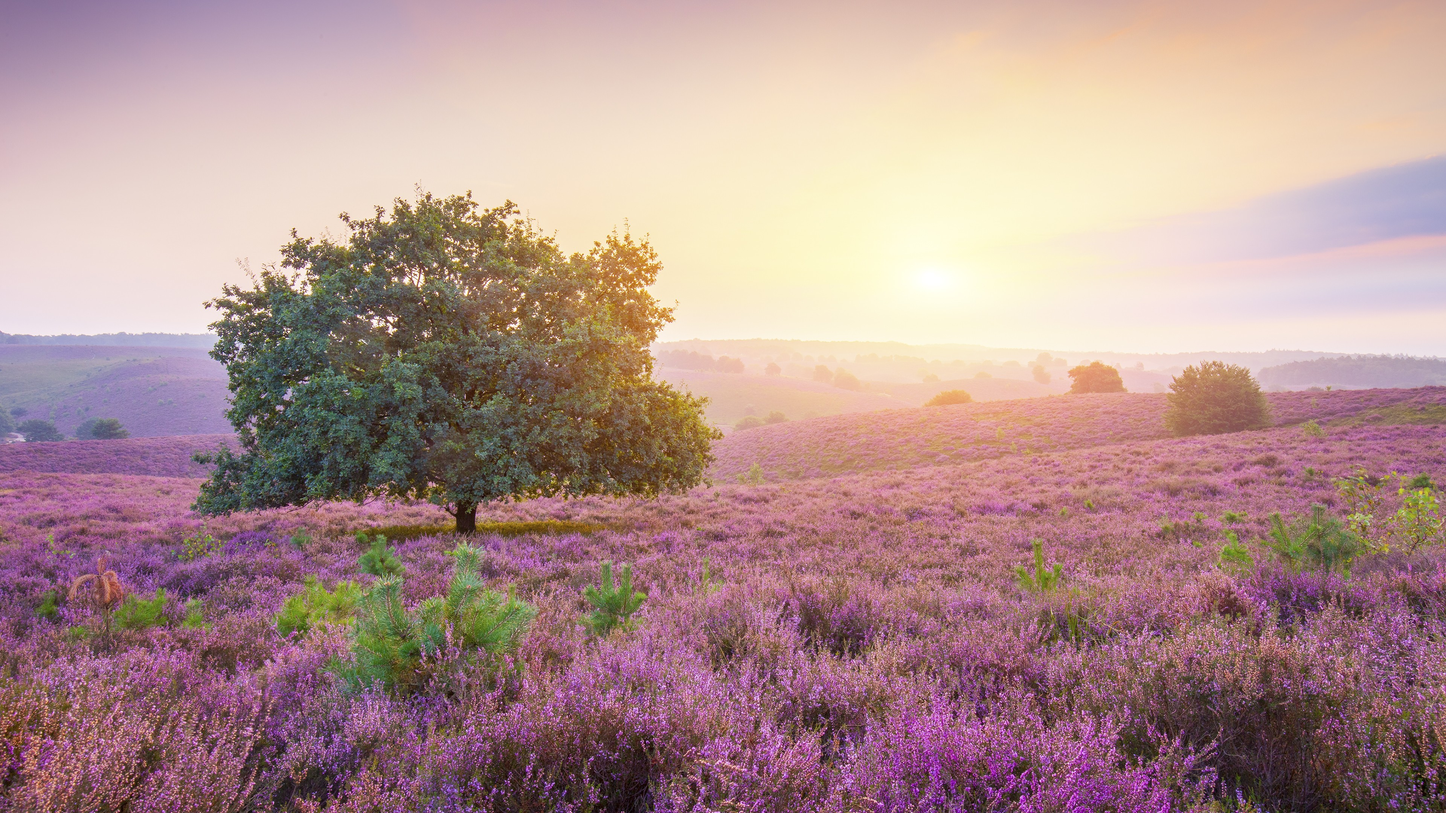
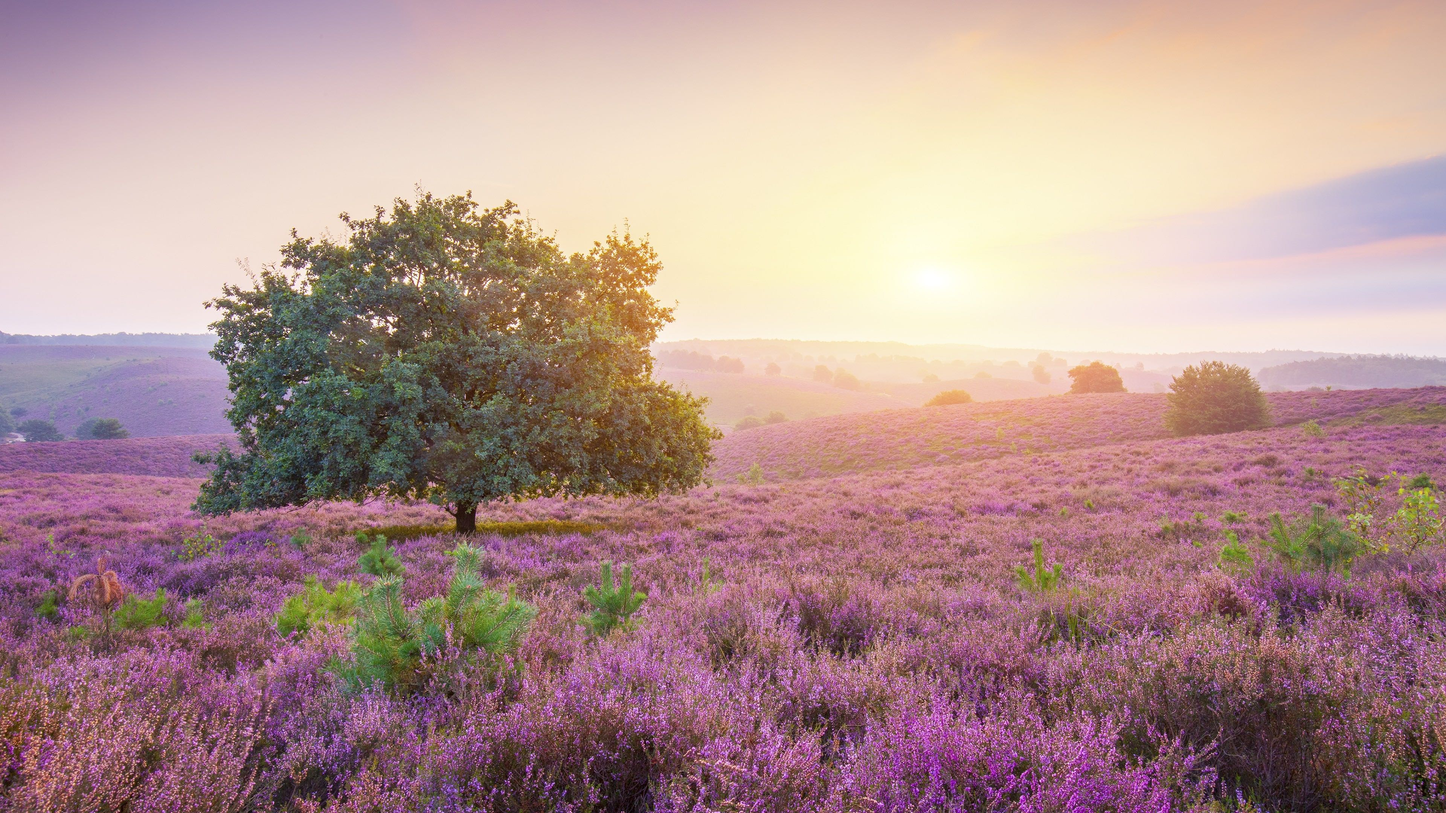
reduce wallpaper sizes and add more images.

diff --git a/activities.html b/activities.html
@@ -41,14 +41,14 @@
                         <img src="https://scontent.fyyc5-1.fna.fbcdn.net/v/t1.0-9/1524824_10100307737489605_1301902264_n.jpg?_nc_cat=110&_nc_ohc=eHJi1oobYuIAX8tH1EH&_nc_ht=scontent.fyyc5-1.fna&oh=51db98979444824721f94850bfcfe0b8&oe=5ECC4829"
                         alt="Hiking in Bolivia">
                         <div class="img-caption">
-                            <p>Hike in the Bolivian Andes at 5000+ ft.</p>
+                            <p>Hike in the Bolivian Andes at 5000+ ft<br />Bolivia</p>
                         </div>
                     </div>
                     <div class="item">
                         <img src="https://trainsplanesandtuktuks.com/Wordpress/wp-content/uploads/2012/02/red-sea-2613882_1280-1024x819.jpg"
                             alt="Scuba Diving">
                         <div class="img-caption">
-                            <p>Scuba Diving in Ko Tao</p>
+                            <p>Scuba Diving in<br />Ko Tao</p>
                         </div>
                     </div>
                     <div class="item">
@@ -66,10 +66,10 @@
                         </div>
                     </div>
                     <div class="item">
-                        <img src="https://instagram.fyyc5-1.fna.fbcdn.net/v/t51.2885-15/e15/11049160_1563794407222438_8915940_n.jpg?_nc_ht=instagram.fyyc5-1.fna.fbcdn.net&_nc_cat=110&_nc_ohc=UTrZzubGgBQAX_s8Gba&oh=df417fd5374adc083e3949d4092d50f9&oe=5ECC8AF6"
-                            alt="Sumo Wrestling">
+                        <img src="https://lh3.googleusercontent.com/proxy/PFcQ_CNWE7hvSmOLeinbFoSKtc6at444daLQRYzOIdH9YybiqIbJ9ETMz4dZB-mCp4aNPa1Zfx0hsc94qqIssZ7E71vjeL8CR7lc3yXuai9GKWqppWqrIdB_LwIrRqR5OJpHI8ny_4YXKOEWMwxRGfjmD1n6SSXtx1MavCDC3MU"
+                            alt="Szechenyi Baths">
                         <div class="img-caption">
-                            <p>Sumo Wrestling (in a sumo suit)</p>
+                            <p>Soak in the Szechenyi Thermal Baths<br />Budapest, Hungary</p>
                         </div>
                     </div>
                     <div class="item">
@@ -83,7 +83,35 @@
                         <img src="https://cdn.kimkim.com/files/a/content_articles/featured_photos/fe7918e9abc72ff850344ff33792a51c393ceae4/big-10099011f3f84e7bd08a0148d26b13f9.jpg"
                             alt="Macchu Picchu">
                         <div class="img-caption">
-                            <p>Hike the Inca Trail to Macchu Picchu</p>
+                            <p>Hike the Inca Trail to Macchu Picchu<br />Peru</p>
+                        </div>
+                    </div>
+                    <div class="item">
+                        <img src="https://instagram.fyyc5-1.fna.fbcdn.net/v/t51.2885-15/e15/11049160_1563794407222438_8915940_n.jpg?_nc_ht=instagram.fyyc5-1.fna.fbcdn.net&_nc_cat=110&_nc_ohc=UTrZzubGgBQAX_s8Gba&oh=df417fd5374adc083e3949d4092d50f9&oe=5ECC8AF6"
+                            alt="Sumo Wrestling">
+                        <div class="img-caption">
+                            <p>Sumo Wrestling (in a sumo suit)</p>
+                        </div>
+                    </div>
+                    <div class="item">
+                        <img src="https://media.timeout.com/images/105245696/630/472/image.jpg"
+                            alt="teamLab Borderless">
+                        <div class="img-caption">
+                            <p>Visit the teamLab Borderless Art Exhibition<br />Tokyo, Japan</p>
+                        </div>
+                    </div>
+                    <div class="item">
+                        <img src="https://i1.wp.com/accidentaltravelwriter.com/wp-content/uploads/2018/06/hk-dragon-boat-festival-boats.jpg?fit=759%2C521&ssl=1"
+                            alt="Dragonboa Races">
+                        <div class="img-caption">
+                            <p>Attend the Dragon Boat Races<br />Sai Kung, Hong Kong</p>
+                        </div>
+                    </div>
+                    <div class="item">
+                        <img src="https://api.time.com/wp-content/uploads/2019/09/macau-threat-china-1.jpg?w=600&quality=85"
+                            alt="Casino Macau">
+                        <div class="img-caption">
+                            <p>Gamble in Macau</p>
                         </div>
                     </div>
                     <div class="item">
@@ -97,7 +125,7 @@
                         <img src="https://instagram.fyyc5-1.fna.fbcdn.net/v/t51.2885-15/e35/11820617_309132409210867_1835036682_n.jpg?_nc_ht=instagram.fyyc5-1.fna.fbcdn.net&_nc_cat=107&_nc_ohc=ipKU1E-V5DEAX8jkmn4&oh=b78846bda59f73dd1abf3de113e3fb3e&oe=5ED6ABE5"
                             alt="Climb a Tree">
                         <div class="img-caption">
-                            <p>Climb a Tree in Tallinn, Estonia</p>
+                            <p>Climb a Tree<br />Tallinn, Estonia</p>
                         </div>
                     </div>
                 </div>
@@ -144,7 +172,7 @@
                         <img src="https://www.whiteroomtours.com/wp-content/uploads/2013/06/hokkaido-ex-asahidake-1024x576.jpg"
                             alt="Hokkaido Snowboarding">
                         <div class="img-caption">
-                            <p>Snowboard in the Legendary Snow of Hokkaido, Japan</p>
+                            <p>Snowboard in the Legendary Snow of<br />Hokkaido, Japan</p>
                         </div>
                     </div>
                     <div class="item">
@@ -158,7 +186,14 @@
                         <img src="https://img.travelawaits.com/filter:centercrop/quill/f/7/4/6/c/0/f746c08b92dbef4cc3642e8675e7e05fb1e23bdd.jpg?w=800&h=800"
                             alt="Cave Trekking Vietnam">
                         <div class="img-caption">
-                            <p>Explore the Caves of Vietnam</p>
+                            <p>Explore the Caves of<br />Vietnam</p>
+                        </div>
+                    </div>
+                    <div class="item">
+                        <img src="https://s3-cdn.tripfuser.com/blog/wp-content/uploads/2018/03/03123610/JapaneseHotSprings1.jpg"
+                            alt="Japanese Hot Spring">
+                        <div class="img-caption">
+                            <p>Soak in an Onsen<br />Japan</p>
                         </div>
                     </div>
                     <div class="item">
@@ -166,6 +201,13 @@
                             alt="Hawaiian Luau">
                         <div class="img-caption">
                             <p>Attend a Hawaiian Luau</p>
+                        </div>
+                    </div>
+                    <div class="item">
+                        <img src="https://qph.fs.quoracdn.net/main-qimg-d02eb840950831f970badc9d6017787e"
+                            alt="Floating in the Dead Sea">
+                        <div class="img-caption">
+                            <p>Floating in the Dead Sea</p>
                         </div>
                     </div>
                     <div class="item">
@@ -183,10 +225,17 @@
                         </div>
                     </div>
                     <div class="item">
-                        <img src="https://haidamarineplanning.com/wp-content/uploads/2016/10/Razor-clam-digging-2.jpg"
-                            alt="Clam Digging">
+                        <img src="https://destinationlesstravel.com/wp-content/uploads/2018/07/DSC_3333-1080x667.jpg"
+                            alt="Milford Sound">
                         <div class="img-caption">
-                            <p>Clam Digging</p>
+                            <p>Take a Boat through Milford Sound</p>
+                        </div>
+                    </div>
+                    <div class="item">
+                        <img src="https://www.rd.com/wp-content/uploads/2017/08/The-Real-Reason-Oktoberfest-Is-Celebrated-573755704-shutterstock-Patino-1024x684.jpg"
+                            alt="Oktoberfest">
+                        <div class="img-caption">
+                            <p>Drink Beer and Eat Pretzels at Oktoberfest<br />Munich, Germany</p>
                         </div>
                     </div>
                 </div>

diff --git a/eats.html b/eats.html
@@ -66,10 +66,10 @@
                         </div>
                     </div>
                     <div class="item">
-                        <img src="https://i.hungrygowhere.com/cms/fd/b9/6e/9a/20029563/laksa.jpg"
-                            alt="Singapore Laksa">
+                        <img src="https://rasamalaysia.com/wp-content/uploads/2014/11/mango-sticky-rice-1.jpg"
+                            alt="Thai Mango Sticky Rice">
                         <div class="img-caption">
-                            <p>Laksa,<br />Singapore</p>
+                            <p>Thai Mango Sticky Rice with Coconut Milk,<br />Thailand</p>
                         </div>
                     </div>
                     <div class="item">
@@ -80,10 +80,52 @@
                         </div>
                     </div>
                     <div class="item">
+                        <img src="https://i.pinimg.com/originals/ca/9e/74/ca9e74cfa3ab66e76d484bf6a8c1c432.jpg"
+                            alt="Shake Stack">
+                        <div class="img-caption">
+                            <p>Shake Stack Burger from Shake Shack<br />USA</p>
+                        </div>
+                    </div>
+                    <div class="item">
+                        <img src="https://i.hungrygowhere.com/cms/fd/b9/6e/9a/20029563/laksa.jpg"
+                            alt="Singapore Laksa">
+                        <div class="img-caption">
+                            <p>Laksa,<br />Singapore</p>
+                        </div>
+                    </div>
+                    <div class="item">
                         <img src="https://www.dartagnan.com/dw/image/v2/AALC_PRD/on/demandware.static/-/Sites-dartagnan-live-catalog-en/default/dwace649cb/images/products/KITJP001-1.jpg?sw=490&strip=false"
                             alt="A5 Beef">
                         <div class="img-caption">
                             <p>A5 Wagyu Beef,<br />Tokyo, Japan</p>
+                        </div>
+                    </div>
+                    <div class="item">
+                        <img src="https://www.cooknsoul.de/wp-content/uploads/2013/07/Schweinshaxe.jpg"
+                            alt="Schweinshaxe">
+                        <div class="img-caption">
+                            <p>Schweinshaxe (Pork Knuckle)<br />Berlin, Germany</p>
+                        </div>
+                    </div>
+                    <div class="item">
+                        <img src="https://www.daringgourmet.com/wp-content/uploads/2013/01/111.jpg"
+                            alt="Moussaka">
+                        <div class="img-caption">
+                            <p>Moussaka<br />Mykonos, Greece</p>
+                        </div>
+                    </div>
+                    <div class="item">
+                        <img src="https://healthynibblesandbits.com/wp-content/uploads/2019/10/Vegetarian-Mapo-Tofu-FF.jpg"
+                            alt="Ma Po Tofu">
+                        <div class="img-caption">
+                            <p>Ma Po Tofu<br />Szechuan, China</p>
+                        </div>
+                    </div>
+                    <div class="item">
+                        <img src="https://eatingeuropean.com/wp-content/uploads/2014/12/pierogi-12.jpg"
+                            alt="Pierogi">
+                        <div class="img-caption">
+                            <p>Pierogi<br />Krakow, Poland</p>
                         </div>
                     </div>
                 </div>
@@ -152,6 +194,27 @@
                             alt="Steak">
                         <div class="img-caption">
                             <p>Steak,<br />Argentina</p>
+                        </div>
+                    </div>
+                    <div class="item">
+                        <img src="https://i.cbc.ca/1.5258451.1566831883!/fileImage/httpImage/image.jpg_gen/derivatives/16x9_780/colombian-empanada.jpg"
+                            alt="Empanadas">
+                        <div class="img-caption">
+                            <p>Corn Flour Empanadas,<br />Colombia</p>
+                        </div>
+                    </div>
+                    <div class="item">
+                        <img src="https://stripedspatula.com/wp-content/uploads/2018/07/lobster-rolls-8-680x952.jpg"
+                            alt="Lobster Roll">
+                        <div class="img-caption">
+                            <p>Fresh Lobster Roll,<br />Maine, USA</p>
+                        </div>
+                    </div>
+                    <div class="item">
+                        <img src="https://www.beerhawk.co.uk/media/wysiwyg/category/belgian.png"
+                            alt="Belgian Beer">
+                        <div class="img-caption">
+                            <p>Belgian Beer,<br />Belgium</p>
                         </div>
                     </div>
                 </div>

diff --git a/places.html b/places.html
@@ -38,6 +38,13 @@
                         </div>
                     </div>
                     <div class="item">
+                        <img src="https://www.tripsavvy.com/thmb/b-hvgyReLebGDjPfkV4FS4E9sqI=/2121x1414/filters:fill(auto,1)/the-hungarian-parliament-on-the-danube-river-at-sunset-in-budapest--hungary-945207010-23afbc9012d54bc4bb7c8a1f8c90075b.jpg"
+                            alt="Budapest">
+                        <div class="img-caption">
+                            <p>Budapest, Hungary</p>
+                        </div>
+                    </div>
+                    <div class="item">
                         <img src="https://instagram.fyxd1-1.fna.fbcdn.net/v/t51.2885-15/e15/11355189_433097426882147_803256919_n.jpg?_nc_ht=instagram.fyxd1-1.fna.fbcdn.net&_nc_cat=111&_nc_ohc=nbgT8Hv5m8IAX8XdsQW&oh=c8d3a539c5b9b30b96691527312580df&oe=5EC61FD0"
                             alt="Santorini at Sunset">
                         <div class="img-caption">
@@ -94,10 +101,31 @@
                         </div>
                     </div>
                     <div class="item">
+                        <img src="https://cdn.thecrazytourist.com/wp-content/uploads/2018/06/ccimage-shutterstock_428804917.jpg"
+                            alt="Prague">
+                        <div class="img-caption">
+                            <p>Prague, Czech Republic</p>
+                        </div>
+                    </div>
+                    <div class="item">
                         <img src="https://instagram.fyyc5-1.fna.fbcdn.net/v/t51.2885-15/e35/p1080x1080/59886167_188039565512113_2878848246801075973_n.jpg?_nc_ht=instagram.fyyc5-1.fna.fbcdn.net&_nc_cat=101&_nc_ohc=RlWJ8SF_4a4AX91TL_e&oh=5d0c884614918efcc70ff5c261ad8ea5&oe=5EDB6E48"
                             alt="Moulin Rouge">
                         <div class="img-caption">
                             <p>Moulin Rouge, Paris, France</p>
+                        </div>
+                    </div>
+                    <div class="item">
+                        <img src="https://i.insider.com/5b89a331e361c0a9248b51c3?width=1100&format=jpeg&auto=webp"
+                            alt="Vienna">
+                        <div class="img-caption">
+                            <p>Vienna, Austria</p>
+                        </div>
+                    </div>
+                    <div class="item">
+                        <img src="https://cdn.britannica.com/s:800x450,c:crop/80/202080-138-E3F9A0D4/more-Great-Pyramid-of-Khufu-Egypt-Giza.jpg"
+                            alt="Pyramids">
+                        <div class="img-caption">
+                            <p>The Great Pyramids<br />Giza, Egypt</p>
                         </div>
                     </div>
                 </div>
@@ -152,6 +180,13 @@
                             alt="Taj Mahal">
                         <div class="img-caption">
                             <p>Taj Mahal, India</p>
+                        </div>
+                    </div>
+                    <div class="item">
+                        <img src="https://www.telegraph.co.uk/content/dam/Travel/Destinations/Africa/South%20Africa/Cape%20Town/cape-town-guides-lead.jpg?imwidth=450"
+                            alt="Cape Town">
+                        <div class="img-caption">
+                            <p>Cape Town, South Africa</p>
                         </div>
                     </div>
                     <div class="item">

diff --git a/index.css b/index.css
@@ -24,7 +24,6 @@
 }
 
 .title {
-  /* font-family: 'Major Mono Display', monospace; */
   font-family: 'Permanent Marker', cursive;
   font-size: 30px;
 }
@@ -40,7 +39,6 @@ a {
 
 .nav-items li {
   font-family: 'Major Mono Display', monospace;
-  /* font-family: 'Permanent Marker', cursive; */
   font-size: 20px;
   margin-left: 30px;
 }
@@ -134,7 +132,6 @@ td a {
 }
 
 h1 {
-  /* font-family: 'Major Mono Display', monospace; */
   font-family: 'Permanent Marker', cursive;
   font-size: 24px;
   margin-bottom: 0;
@@ -195,7 +192,7 @@ p {
 .img-caption p {
   color: #000000;
   font-weight: bold;
-  font-size: 18px;
+  font-size: 16px;
   opacity: 1;
   padding: 0 10px;
 }

diff --git a/index.html b/index.html
@@ -34,7 +34,9 @@
                 <table>
                     <thead>
                         <tr>
-                            <th colspan="2"><h1>Contact Details</h1></th>
+                            <th colspan="2">
+                                <h1>Contact Details</h1>
+                            </th>
                         </tr>
                     </thead>
                     <tbody>
